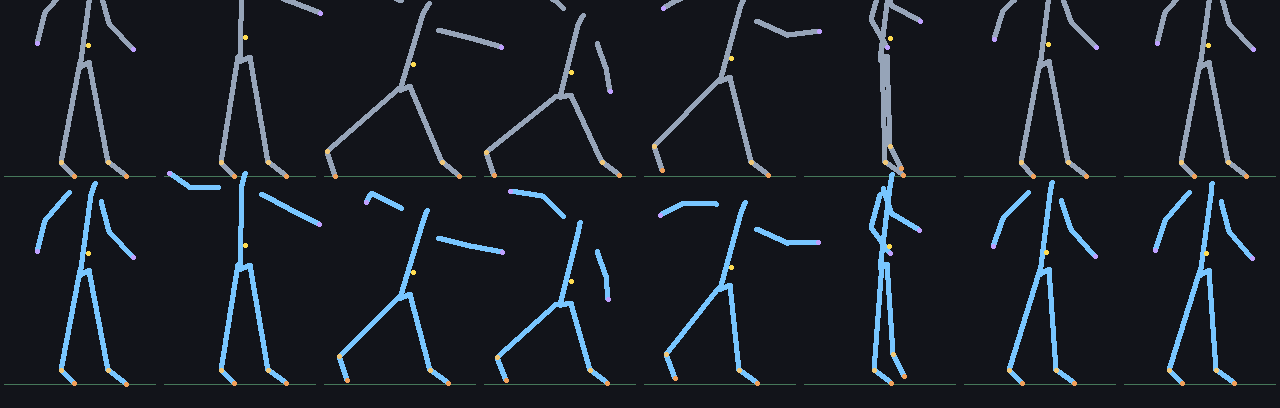
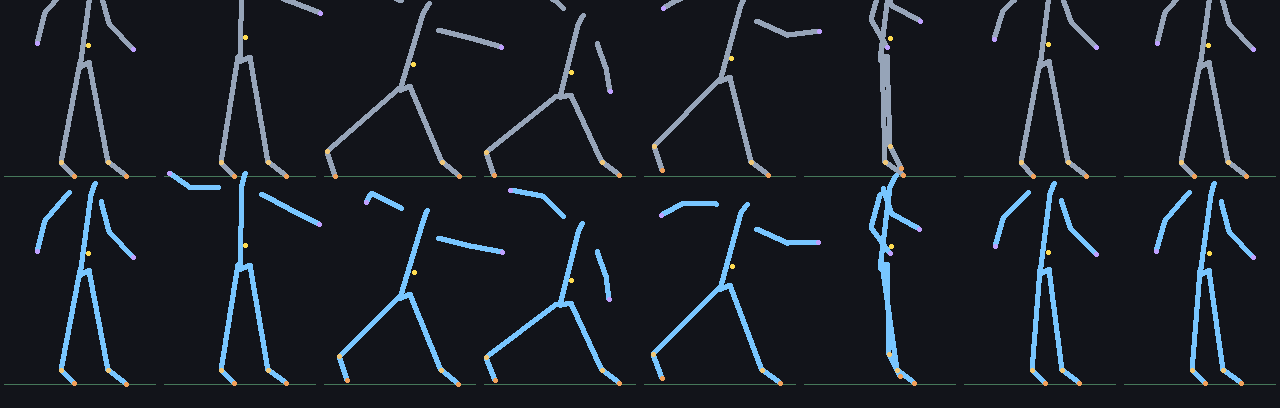
Kev physics: do not hand a two-foot skate to the pelvis.
When both planted feet want the root to move in opposite directions, as in a
sword swing, re-pin them where they stand. Sword_Attack pelvis travel drops
from 1.8 m to 0.17 m. A walk still drives from the one foot that is down.

diff --git a/tools/kev/physics/sim.py b/tools/kev/physics/sim.py
@@ -262,19 +262,42 @@ class PhysicsPass:
             # The ankle of the oldest driving plant owns the root. A toe-off stops driving but
             # stays pinned, so the pelvis does not reverse and the sole does not skate away.
             driving = [s for s in held if self.feet[s].get("drive", True)]
-            primary = max(driving or held, key=lambda s: self.feet[s].get("age", 0))
-            ankle = lm.get(f"ankle_{primary}")
-            if ankle is not None and "alock" in self.feet[primary]:
-                desired = self.feet[primary]["alock"] - body.xz(ankle) - self.offset
-            else:
-                desired = self.feet[primary]["lock"] - body.xz(lm[self.feet[primary]["pivot"]]) - self.offset
-            # Ignore drift slower than a stroll. A landing settle should not become travel.
-            if float(np.linalg.norm(desired)) < 0.008:
+            owners = driving or held
+            desires = {}
+            for s in owners:
+                ankle = lm.get(f"ankle_{s}")
+                if ankle is not None and "alock" in self.feet[s]:
+                    desires[s] = self.feet[s]["alock"] - body.xz(ankle) - self.offset
+                elif self.feet[s]["pivot"] in lm:
+                    desires[s] = self.feet[s]["lock"] - body.xz(lm[self.feet[s]["pivot"]]) - self.offset
+            primary = max(owners, key=lambda s: self.feet[s].get("age", 0))
+            raw = desires.get(primary, np.zeros(2))
+            # Two planted feet that want opposite root motion (a sword swing, both soles
+            # skating apart) must not hand either skate to the pelvis. Re-pin them where
+            # they stand. A walk keeps a single driving foot, so it still travels.
+            disagree = False
+            if len(desires) >= 2 and float(np.linalg.norm(raw)) > 0.05:
+                for s, other in desires.items():
+                    if s != primary and float(np.dot(raw, other)) < 0 and float(np.linalg.norm(other)) > 0.05:
+                        disagree = True
+            if disagree:
+                for s in held:
+                    low_key, low = body.lowest_sole(lm, s)
+                    ankle = lm.get(f"ankle_{s}")
+                    if low_key is None or low is None or ankle is None:
+                        continue
+                    self.feet[s]["pivot"] = low_key
+                    self.feet[s]["lock"] = body.xz(low) + self.offset
+                    self.feet[s]["alock"] = body.xz(ankle) + self.offset
+                self.offset_step[:] = 0.0
                 desired = np.zeros(2)
-            if float(np.dot(desired, self.offset_step)) < 0 and float(np.linalg.norm(self.offset_step)) > 0.004:
-                desired = self.offset_step.copy()
             else:
-                desired = self.offset_step + _cap(np.asarray(desired, float) - self.offset_step, 0.004)
+                # Slower than a stroll. A landing settle should not become travel.
+                desired = np.zeros(2) if float(np.linalg.norm(raw)) < 0.008 else np.asarray(raw, float)
+                if float(np.dot(desired, self.offset_step)) < 0 and float(np.linalg.norm(self.offset_step)) > 0.004:
+                    desired = self.offset_step.copy()
+                else:
+                    desired = self.offset_step + _cap(desired - self.offset_step, 0.004)
             self.offset_step = _cap(np.array(desired, float), 0.06)
             self.offset = self.offset + self.offset_step
             _translate(lm, np.array([float(self.offset[0]), 0.0, float(self.offset[1])]))
